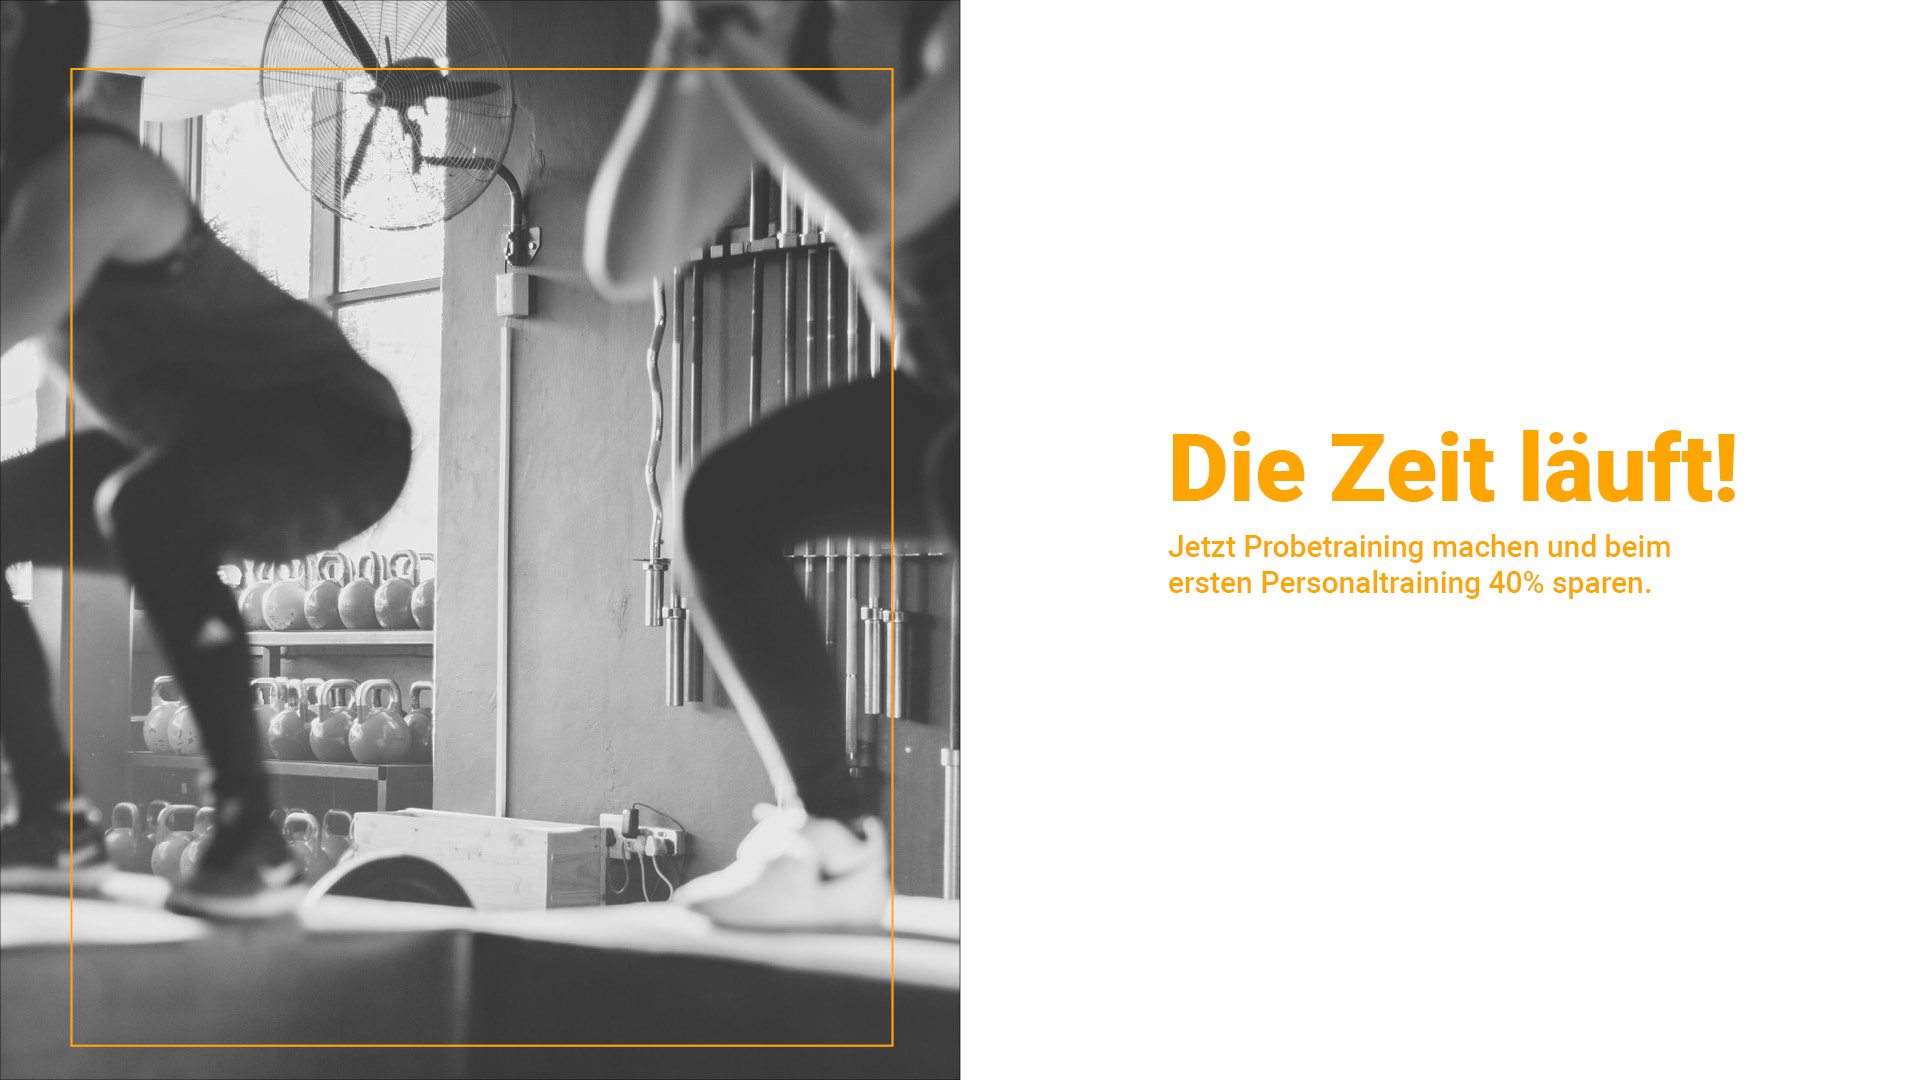
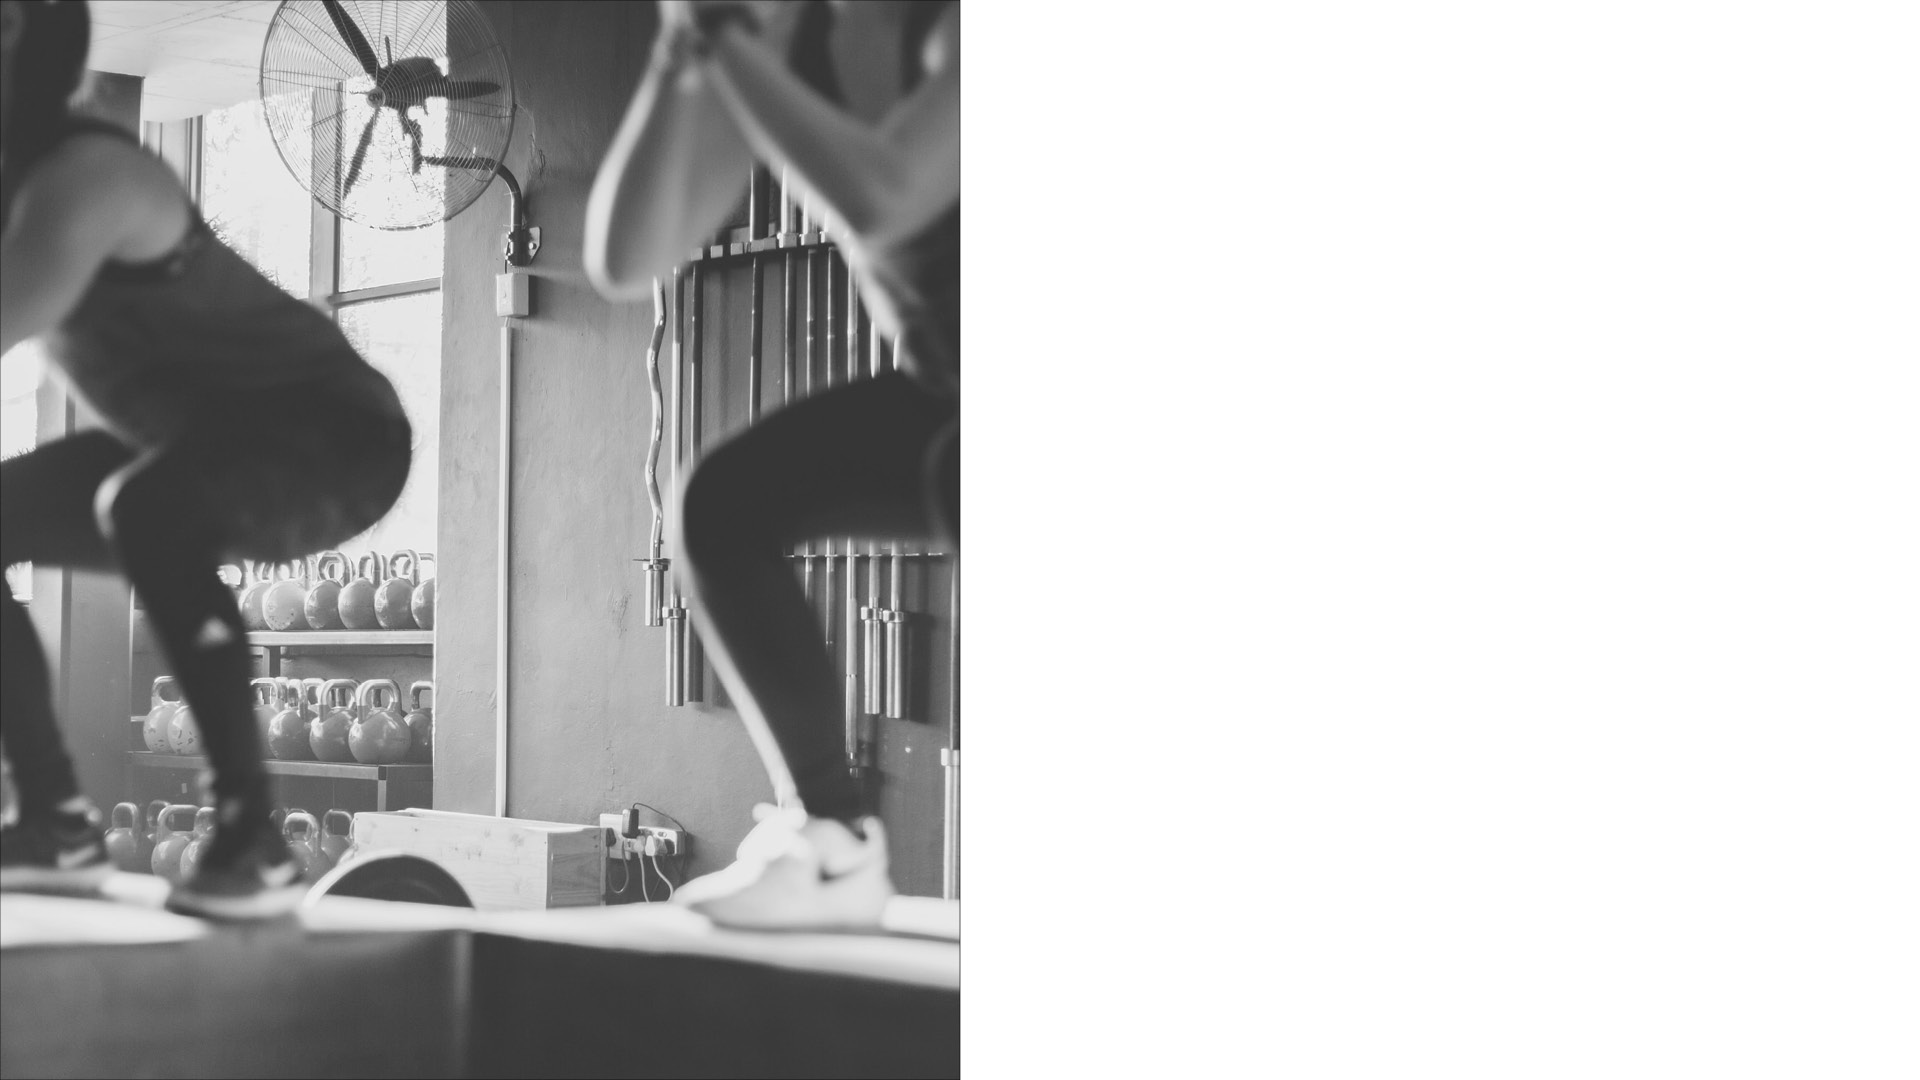
new Timer comp

Changed region(s): [[0.5938, 0.3972, 0.9062, 0.55], [0.4375, 0.9472, 0.4688, 0.9778], [0.0312, 0.9472, 0.0625, 0.9778]]

diff --git a/ON-your-styleguide/index.html b/ON-your-styleguide/index.html
@@ -32,14 +32,16 @@
         text='Deine persönliche Beratung in der besten Stadt Deutschlands.' headline='MosFit-Personalcoaching'>
         <Durch id="Absatz1">Durch unsere Kompetenz und Wertschätzung verhelfen wir unseren Mitgliedern dazu, mehr
           Lebensqualität zu </br>
-          erfahren und gemeinsam Deine persönlichen Ziele in Deinem Fitnessstudio in Mosbach zu erreichen. </br>
+          erfahren und gemeinsam deine persönlichen Ziele in deinem Fitnessstudio in Mosbach zu erreichen. </br>
           Wir arbeiten kontinuierlich daran, unseren Mitgliedern die höchste Qualität anzubieten. Durch unsere
           Erfahrungen, </br>
           Leistungen und Trainingsmöglichkeiten unterstützen wir jeden dabei, der uns sein Vertrauen schenkt. </br>
           </p>
       </content-area-component>
-      <content-area-component type="imageonly" bgimg="angebot_1.jpg">
-      </content-area-component>
+      <content-area-component id='Angebot' type="textheadlinebg" bgimg="angebot_1.jpg" fontcolor='orange' 
+      text='Jetzt Personaltraining machen und 40€ sparen.' headline='Die Zeit läuft!'>
+      <timer-component hours='8'></timer-component>
+    </content-area-component>
       <content-area-component type='textheadlinecolorbg' bgcolor='black' fontcolor='orange'
       text='Lerne unsere Coaches jetzt persönlich bei einer Beratung kennen.' headline='Unsere Coaches'>
 

diff --git a/src/components/content-area/content-area.css b/src/components/content-area/content-area.css
@@ -27,8 +27,18 @@
   .content-container .text-container p {
     font-size: 2rem;
     max-width: 60rem;
+    
   }
   
+.timer{
+  font-size: 5rem;
+  display: flex;
+  position: absolute;
+  margin-left: 20rem;
+  margin-top: 18rem;
+ 
+}
+
   .content-area img {
     width: 100%;
     height: 100%;
@@ -41,6 +51,8 @@
     transition: left 2s ease-in-out;
   }
   
+
+
   #controls{
     z-index: 100;
     position:absolute;
@@ -50,6 +62,20 @@
     cursor: pointer;
     color: white;
   }
+
+  #Angebot p{
+    position: flex;
+    margin-left: 62rem;
+
+  }
+
+  #Angebot h2{
+    position: flex;
+    margin-left: 67rem;
+    margin-top: 7rem;
+  }
+  
+
 
 
   .pics{

diff --git a/src/components/timer/timer.tsx b/src/components/timer/timer.tsx
@@ -58,7 +58,9 @@ export class Timer {
   render() {
     return <Host class="timer">
       <div class="hours">{this.getRemainingHours()}</div>
+      <div>:</div>
       <div class="minutes">{this.getRemainingMinutes()}</div>
+      <div>:</div>
       <div class="seconds">{this.getRemainingSeconds()}</div>
     </Host>;
   }
